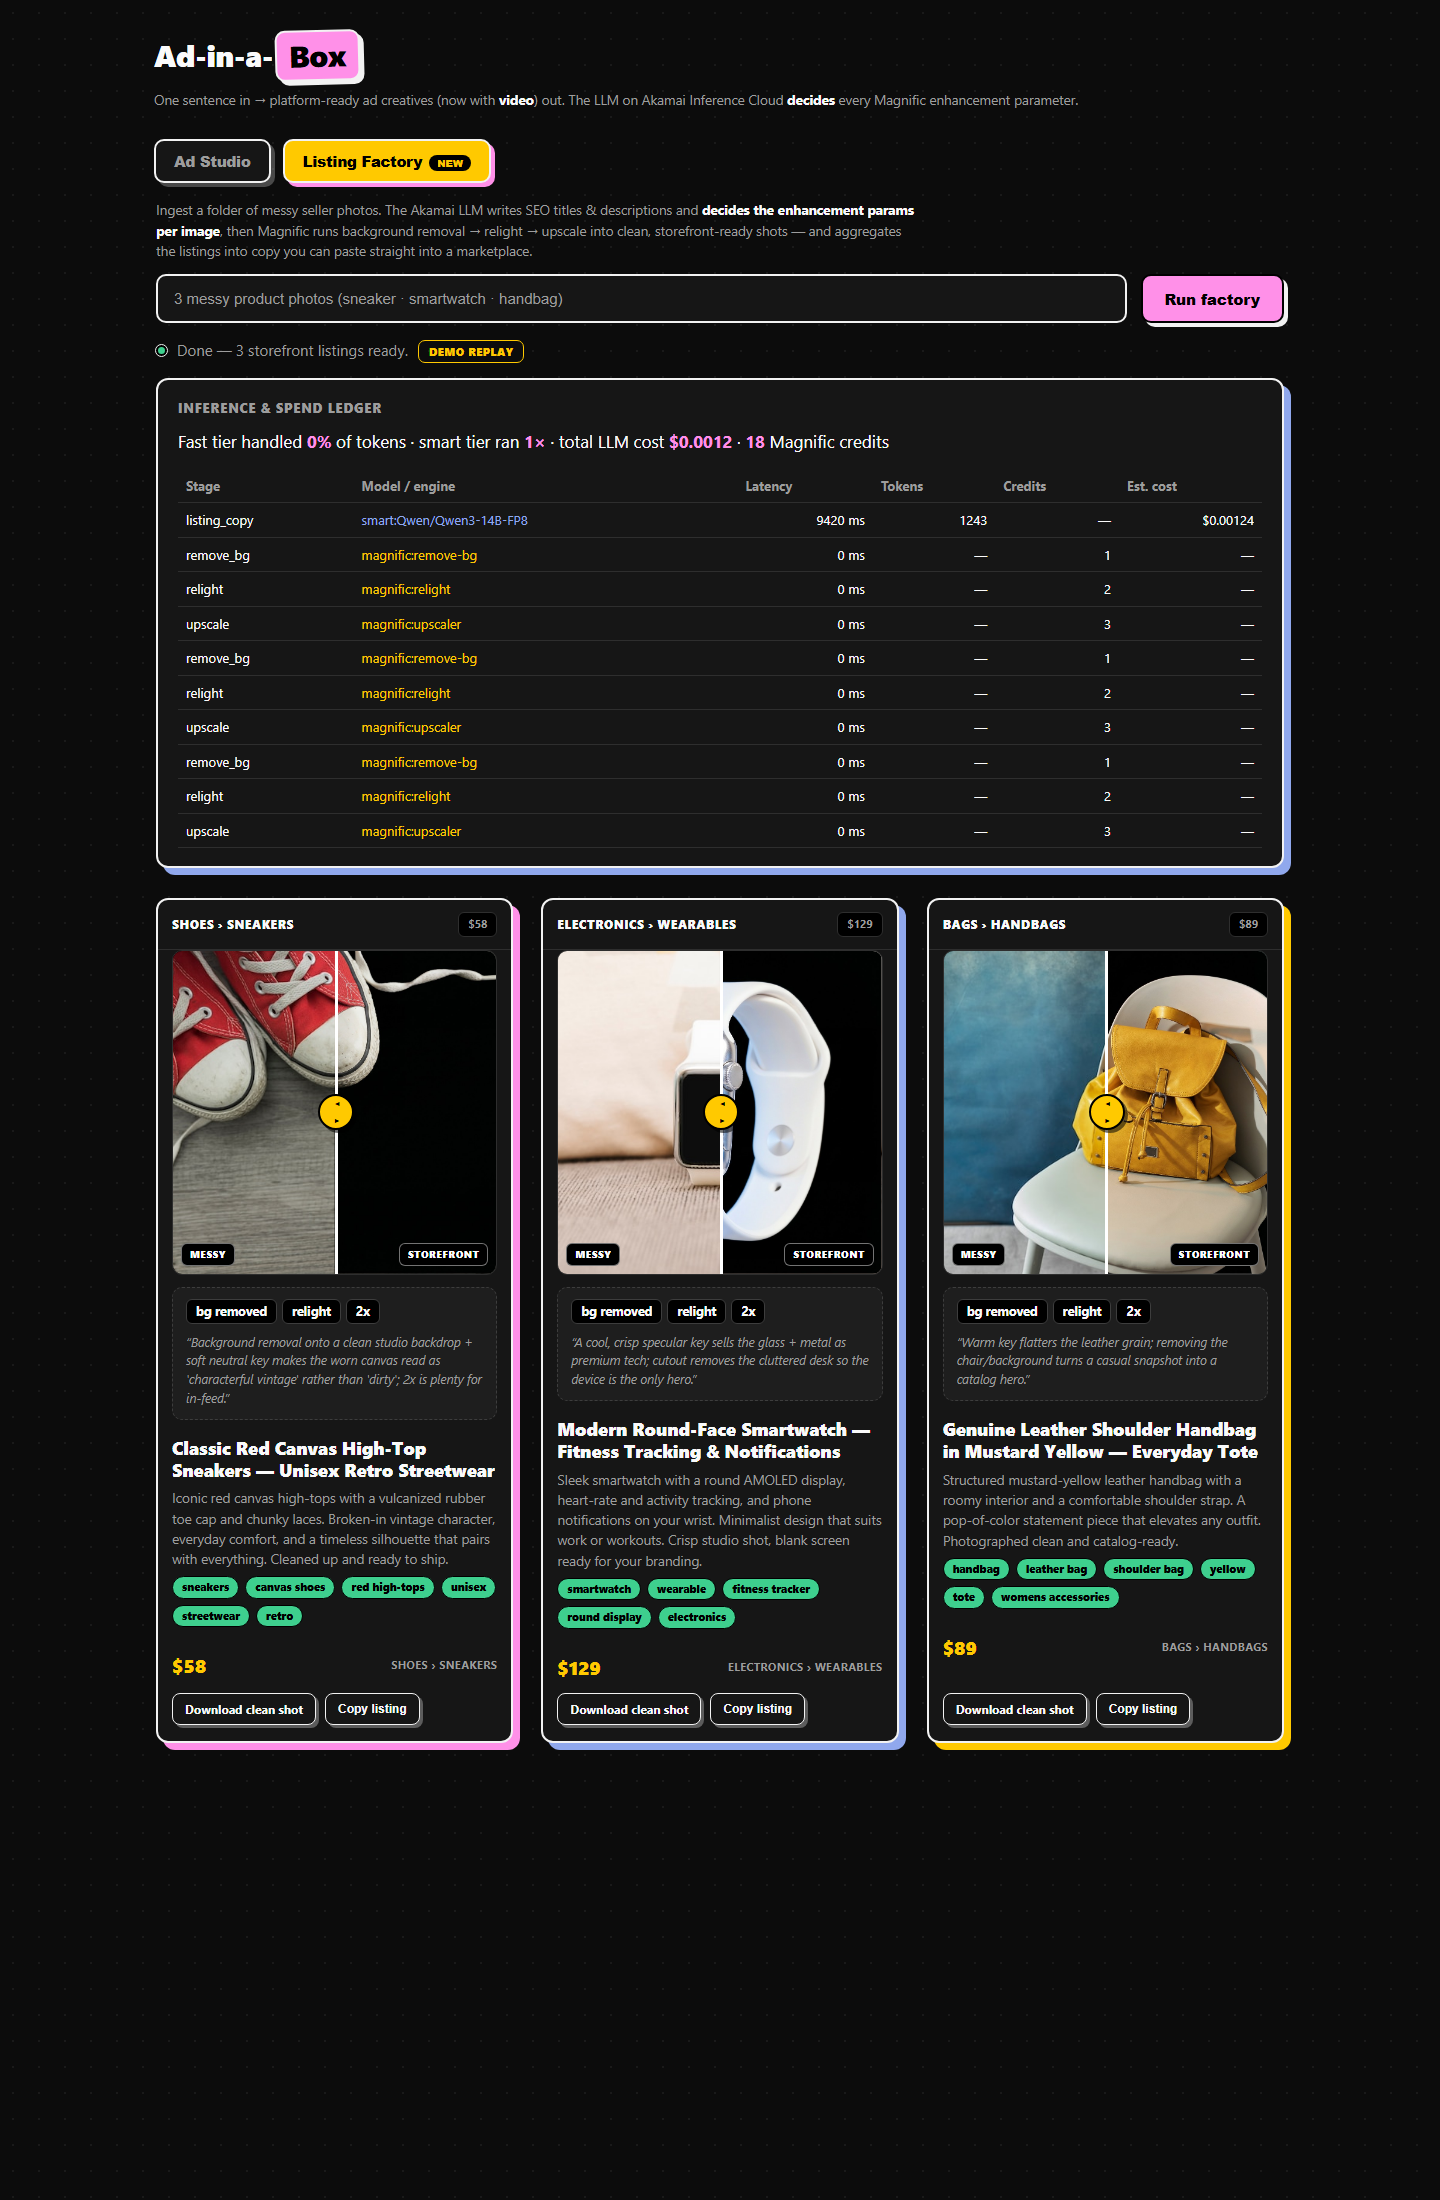
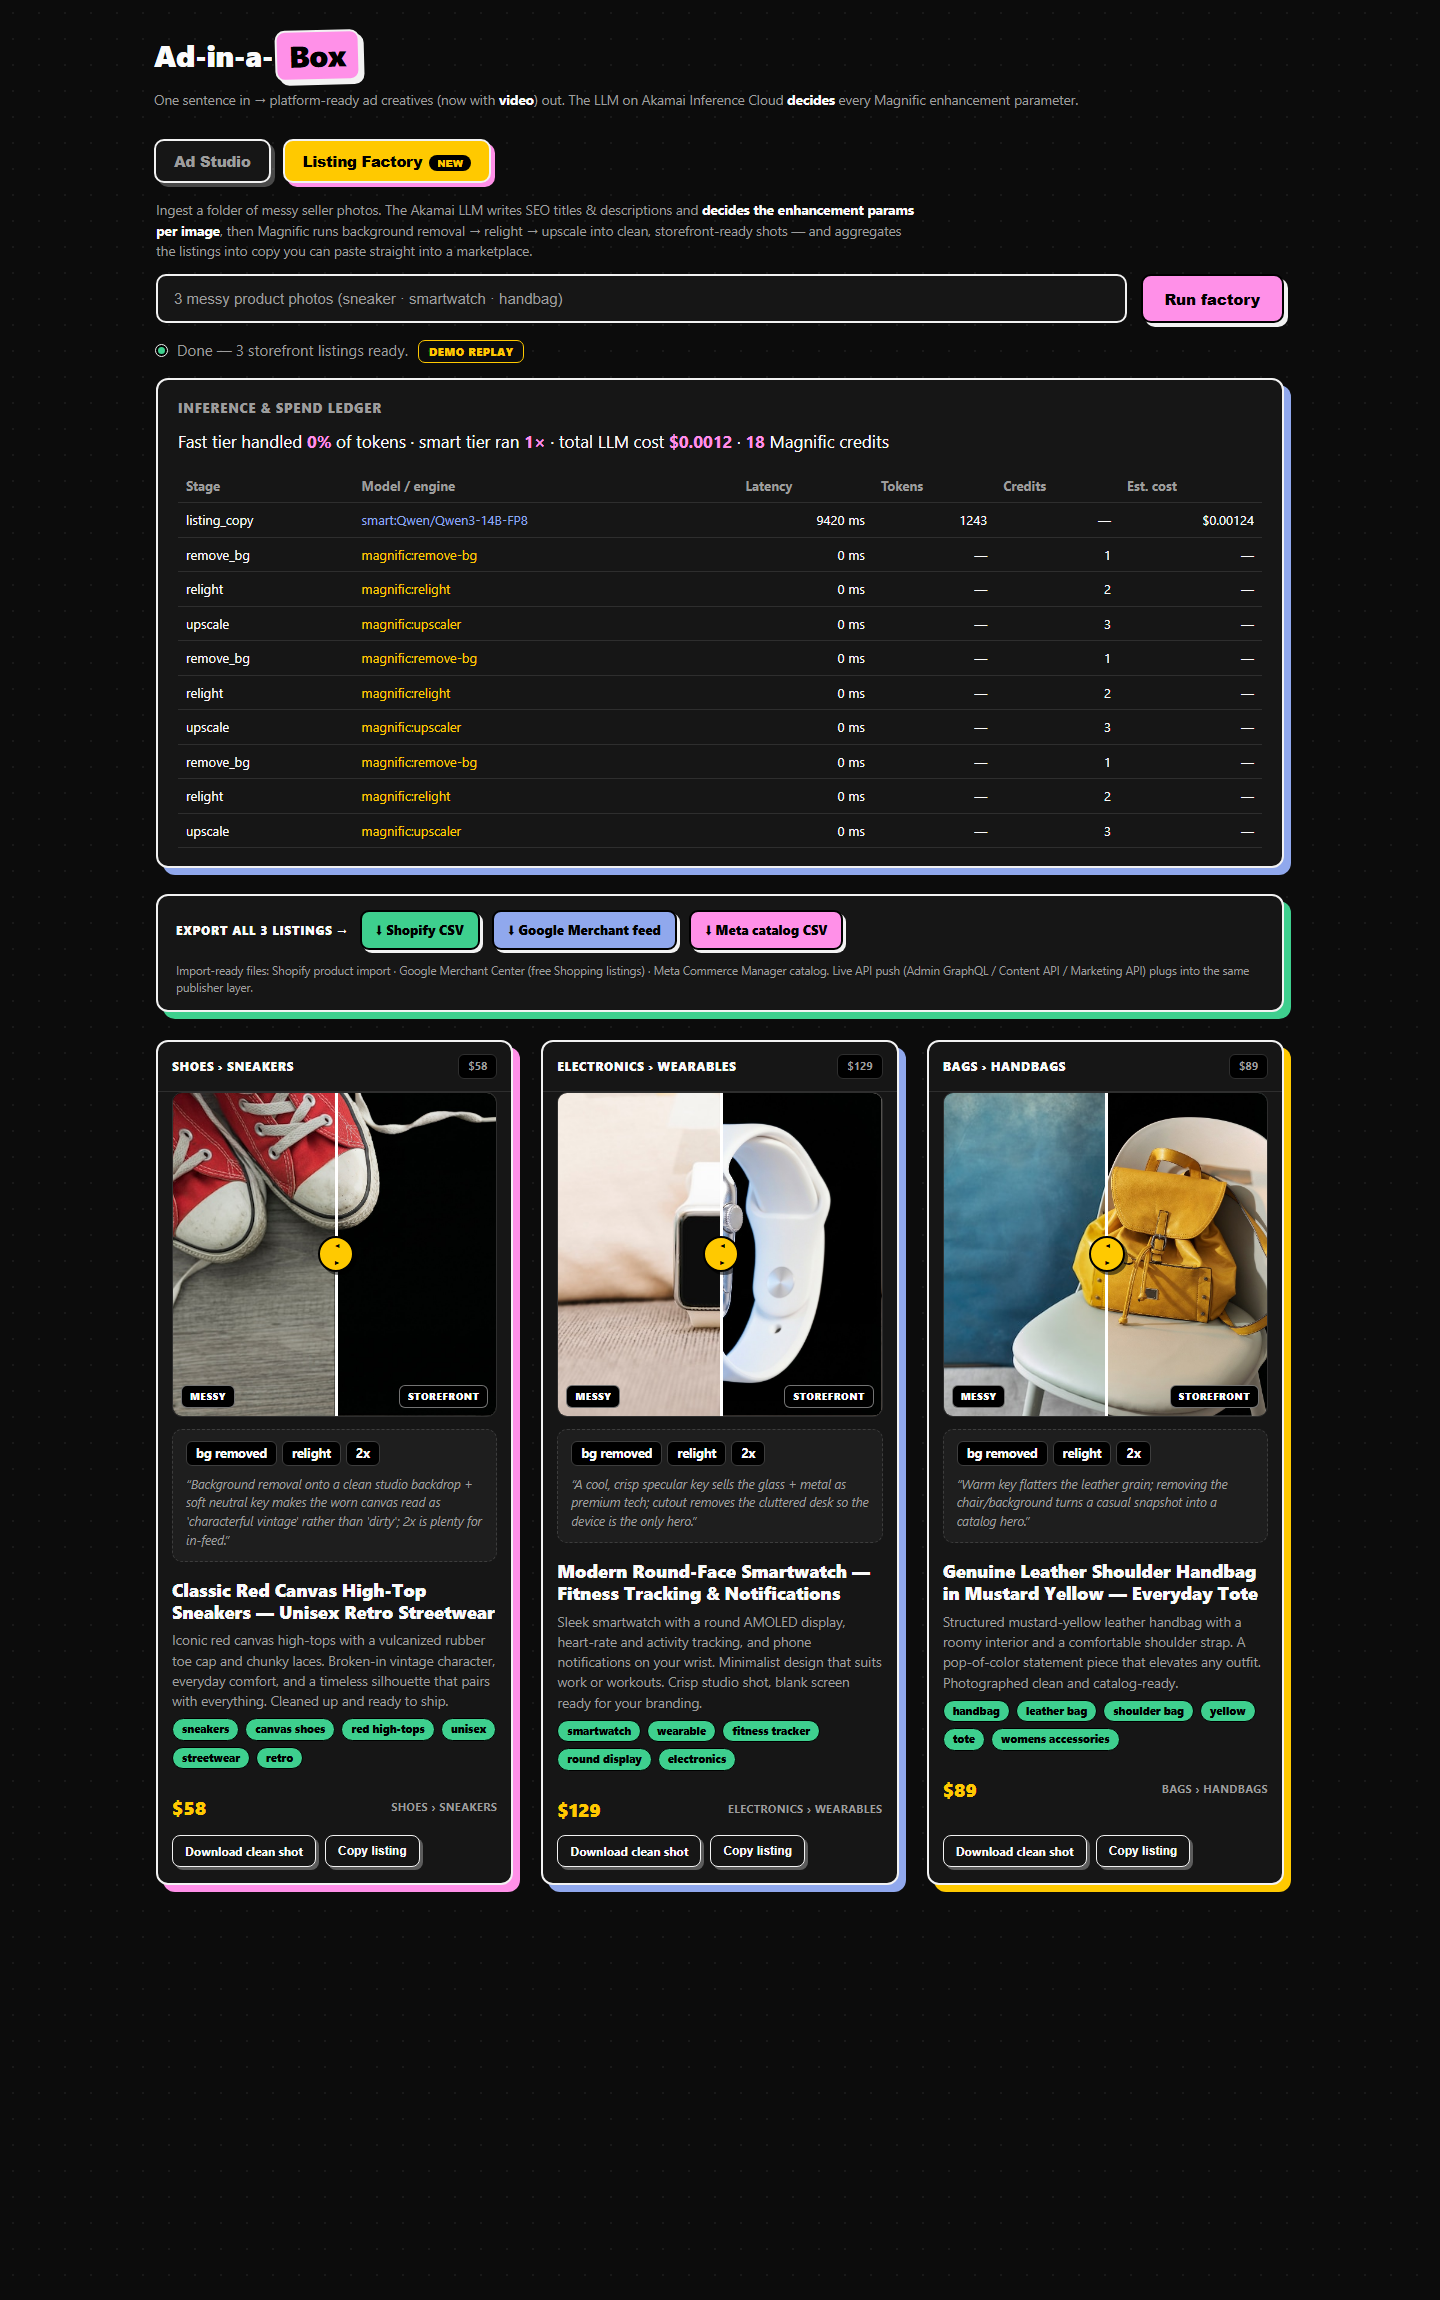
One-click platform exports: Shopify CSV, Google Merchant feed, Meta catalog
backend/publishers/exports.py builds import-ready feeds from a ListingRun;
GET /listings/{id}/export/{shopify|merchant|meta} serves them; export toolbar
appears on the Listing Factory tab when a run completes. README updated +
refreshed screenshot.

diff --git a/frontend/index.html b/frontend/index.html
@@ -153,6 +153,19 @@
   .toast.show{opacity:1;transform:translateX(-50%) translateY(0)}
   .intro{color:var(--dim);font-size:13.5px;margin:16px 2px 4px;max-width:760px}
   .intro b{color:var(--ink)}
+
+  /* platform export toolbar */
+  .exports{display:flex;align-items:center;gap:12px;flex-wrap:wrap;background:var(--panel);
+       border:2px solid var(--line);border-radius:var(--radius);padding:14px 18px;margin:4px 2px 24px;
+       box-shadow:7px 7px 0 var(--green)}
+  .exports .xlabel{font-size:12px;font-weight:900;text-transform:uppercase;letter-spacing:.7px;color:var(--ink)}
+  .exports a{font-size:13px;font-weight:800;color:#000;text-decoration:none;border:2px solid #000;
+       border-radius:9px;padding:8px 14px;transition:.12s;box-shadow:3px 3px 0 var(--line)}
+  .exports a:hover{transform:translate(-2px,-2px);box-shadow:5px 5px 0 var(--line)}
+  .exports a.shopify{background:var(--green)}
+  .exports a.merchant{background:var(--blue)}
+  .exports a.meta{background:var(--pink)}
+  .exports .xnote{font-size:11.5px;color:var(--dim);width:100%}
 </style>
 </head>
 <body>
@@ -216,6 +229,8 @@
         <th class="num">Tokens</th><th class="num">Credits</th><th class="num">Est. cost</th>
       </tr></thead><tbody id="lledgerBody"></tbody></table>
     </div>
+
+    <div class="exports" id="lexports" style="display:none"></div>
 
     <div class="gallery" id="lgallery"></div>
   </div>
@@ -466,6 +481,16 @@ function renderListings(s){
     (s.stage==="listing_copy"?"LLM writing SEO + choosing enhancement params…":
      s.stage==="cleaning"?"Magnific cleaning photos (bg → relight → upscale)…":s.stage));
   if(s.ledger_summary) renderLedger(s,"#lledger","#lheadStat","#lledgerBody");
+  // one-click platform feeds, once the run is done
+  if(s.status==="done" && s.run_id){
+    const x=$("#lexports");
+    x.innerHTML=`<span class="xlabel">Export all ${s.items.length} listings →</span>`+
+      `<a class="shopify" href="/listings/${s.run_id}/export/shopify" download>⬇ Shopify CSV</a>`+
+      `<a class="merchant" href="/listings/${s.run_id}/export/merchant" download>⬇ Google Merchant feed</a>`+
+      `<a class="meta" href="/listings/${s.run_id}/export/meta" download>⬇ Meta catalog CSV</a>`+
+      `<span class="xnote">Import-ready files: Shopify product import · Google Merchant Center (free Shopping listings) · Meta Commerce Manager catalog. Live API push (Admin GraphQL / Content API / Marketing API) plugs into the same publisher layer.</span>`;
+    x.style.display="flex";
+  }
   const g=$("#lgallery");
   (s.items||[]).forEach(it=>{
     let card=document.getElementById("lcard-"+it.id);

diff --git a/backend/publishers/exports.py b/backend/publishers/exports.py
@@ -1,0 +1,142 @@
+"""No-auth export adapters: turn a ListingRun into platform-ready feed files.
+
+Each builder is a pure function ListingRun -> file text, so the same factory
+output imports into Shopify (product CSV), Google Merchant Center (TSV feed —
+free Shopping listings, zero ad spend) and Meta Commerce Manager (catalog CSV)
+without any platform credentials. Live API pushes (Shopify Admin GraphQL,
+Content API, Marketing API) slot in beside these as publishers/{platform}.py.
+
+Image/link URLs are absolutized against the serving host; in production these
+would point at a CDN.
+"""
+from __future__ import annotations
+
+import csv
+import io
+import re
+
+from ..models import ListingItem, ListingRun
+
+
+def _price_number(price: str) -> str:
+    """'$58' -> '58.00' (defaults to 0.00 if unparsable)."""
+    m = re.search(r"[\d.]+", price or "")
+    try:
+        return f"{float(m.group()):.2f}" if m else "0.00"
+    except ValueError:
+        return "0.00"
+
+
+def _abs(base_url: str, path: str | None) -> str:
+    if not path:
+        return ""
+    return base_url.rstrip("/") + path
+
+
+def _handle(item: ListingItem) -> str:
+    slug = re.sub(r"[^a-z0-9]+", "-", item.title.lower()).strip("-")
+    return slug[:60] or item.id
+
+
+def _csv(rows: list[dict], fieldnames: list[str], *, delimiter: str = ",") -> str:
+    buf = io.StringIO()
+    w = csv.DictWriter(buf, fieldnames=fieldnames, delimiter=delimiter, lineterminator="\n")
+    w.writeheader()
+    w.writerows(rows)
+    return buf.getvalue()
+
+
+# --- Shopify product import CSV ---------------------------------------------
+_SHOPIFY_FIELDS = [
+    "Handle", "Title", "Body (HTML)", "Vendor", "Type", "Tags", "Published",
+    "Option1 Name", "Option1 Value", "Variant Price", "Variant Inventory Policy",
+    "Variant Fulfillment Service", "Image Src", "Image Alt Text", "Status",
+]
+
+
+def shopify_csv(run: ListingRun, base_url: str) -> str:
+    rows = []
+    for it in run.items:
+        rows.append({
+            "Handle": _handle(it),
+            "Title": it.title,
+            "Body (HTML)": f"<p>{it.description}</p>",
+            "Vendor": "Ad-in-a-Box",
+            "Type": it.category,
+            "Tags": ", ".join(it.tags),
+            "Published": "TRUE",
+            "Option1 Name": "Title",
+            "Option1 Value": "Default Title",
+            "Variant Price": _price_number(it.suggested_price),
+            "Variant Inventory Policy": "deny",
+            "Variant Fulfillment Service": "manual",
+            "Image Src": _abs(base_url, it.clean_url),
+            "Image Alt Text": it.title,
+            "Status": "active",
+        })
+    return _csv(rows, _SHOPIFY_FIELDS)
+
+
+# --- Google Merchant Center feed (TSV) — free Shopping listings -------------
+_MERCHANT_FIELDS = [
+    "id", "title", "description", "link", "image_link", "availability",
+    "price", "condition", "brand", "google_product_category", "identifier_exists",
+]
+
+
+def merchant_tsv(run: ListingRun, base_url: str) -> str:
+    rows = []
+    for it in run.items:
+        rows.append({
+            "id": f"adbox-{run.run_id}-{it.id}",
+            "title": it.title,
+            "description": it.description,
+            "link": base_url.rstrip("/") + "/",
+            "image_link": _abs(base_url, it.clean_url),
+            "availability": "in stock",
+            "price": f"{_price_number(it.suggested_price)} USD",
+            "condition": "new",
+            "brand": "Ad-in-a-Box",
+            "google_product_category": it.category,
+            "identifier_exists": "no",
+        })
+    return _csv(rows, _MERCHANT_FIELDS, delimiter="\t")
+
+
+# --- Meta (Facebook/Instagram Shops) catalog CSV -----------------------------
+_META_FIELDS = [
+    "id", "title", "description", "availability", "condition", "price",
+    "link", "image_link", "brand", "product_type",
+]
+
+
+def meta_csv(run: ListingRun, base_url: str) -> str:
+    rows = []
+    for it in run.items:
+        rows.append({
+            "id": f"adbox-{run.run_id}-{it.id}",
+            "title": it.title,
+            "description": it.description,
+            "availability": "in stock",
+            "condition": "new",
+            "price": f"{_price_number(it.suggested_price)} USD",
+            "link": base_url.rstrip("/") + "/",
+            "image_link": _abs(base_url, it.clean_url),
+            "brand": "Ad-in-a-Box",
+            "product_type": it.category,
+        })
+    return _csv(rows, _META_FIELDS)
+
+
+# --- Registry ----------------------------------------------------------------
+EXPORTERS = {
+    "shopify": (shopify_csv, "shopify_products.csv", "text/csv"),
+    "merchant": (merchant_tsv, "google_merchant_feed.tsv", "text/tab-separated-values"),
+    "meta": (meta_csv, "meta_catalog.csv", "text/csv"),
+}
+
+
+def export(run: ListingRun, platform: str, base_url: str) -> tuple[str, str, str]:
+    """Returns (file_text, filename, mime). Raises KeyError on unknown platform."""
+    builder, filename, mime = EXPORTERS[platform]
+    return builder(run, base_url), filename, mime

diff --git a/backend/main.py b/backend/main.py
@@ -9,8 +9,8 @@ import os
 import uuid
 
 from dotenv import load_dotenv
-from fastapi import BackgroundTasks, FastAPI, HTTPException
-from fastapi.responses import FileResponse, JSONResponse
+from fastapi import BackgroundTasks, FastAPI, HTTPException, Request
+from fastapi.responses import FileResponse, JSONResponse, Response
 from fastapi.staticfiles import StaticFiles
 from pydantic import BaseModel
 
@@ -23,6 +23,7 @@ from . import listing_factory  # noqa: E402
 from .ledger import summarize  # noqa: E402
 from .models import ListingRun, RunState  # noqa: E402
 from .pipeline import run_pipeline  # noqa: E402
+from .publishers import exports  # noqa: E402
 
 BASE_DIR = Path(__file__).parent
 STATIC_DIR = BASE_DIR / "static"
@@ -131,3 +132,21 @@ async def get_listing_run(run_id: str):
     payload = state.model_dump()
     payload["ledger_summary"] = summarize(all_stages)
     return payload
+
+
[email redacted]("/listings/{run_id}/export/{platform}")
+async def export_listing_run(run_id: str, platform: str, request: Request):
+    """No-auth platform feeds: shopify (product CSV), merchant (Google Merchant
+    Center TSV — free Shopping listings), meta (Commerce Manager catalog CSV)."""
+    state = LISTING_RUNS.get(run_id)
+    if state is None:
+        raise HTTPException(status_code=404, detail="listing run not found")
+    try:
+        content, filename, mime = exports.export(state, platform, str(request.base_url))
+    except KeyError:
+        raise HTTPException(status_code=404, detail=f"unknown platform '{platform}'")
+    return Response(
+        content,
+        media_type=mime,
+        headers={"Content-Disposition": f'attachment; filename="{filename}"'},
+    )

diff --git a/README.md b/README.md
@@ -170,28 +170,30 @@ The pipeline already ends in **typed contracts** (`Creative`, `ListingItem` in [
 | `suggested_price` | `variant.price` |
 | `clean_url` image | `productCreateMedia` (staged upload) |
 
-Two integration levels: **(1) zero-auth** — a "Download Shopify CSV" export the merchant imports in two clicks; **(2) live push** — a custom-app Admin token + `publishers/shopify.py` → a "Push to Shopify" button per listing card.
+Two integration levels: **(1) zero-auth — ✅ BUILT:** a "⬇ Shopify CSV" button on the Listing Factory tab downloads an import-ready product CSV (`GET /listings/{id}/export/shopify`); **(2) live push** — a custom-app Admin token + `publishers/shopify.py` → a "Push to Shopify" button per listing card.
 
 ### 🔎 Google — a free door and a paid door
-- **Free — Google Merchant Center free listings:** push Listing Factory output as a **product feed** (Content API for Shopping). Clean image + SEO title/description/price = free Google Shopping placement, *zero ad spend*. The strongest free-distribution fit for the factory.
+- **Free — Google Merchant Center free listings — ✅ BUILT (feed):** the "⬇ Google Merchant feed" button downloads a spec-compliant TSV product feed (`id/title/description/link/image_link/price/availability/...`). Clean image + SEO title/description/price = free Google Shopping placement, *zero ad spend*. The strongest free-distribution fit for the factory; the Content API push is the live upgrade.
 - **Paid — Google Ads Performance Max:** our outputs map directly to PMax **asset groups** — headlines (≤30 chars), descriptions (≤90), images (1:1 / 1.91:1 / 4:5), videos (YouTube upload → asset link). Two one-line adaptations: the smart tier's prompt gains platform char limits (it already enforces per-channel rules), and Magnific `crop`/`resize` covers the extra aspect ratios as one more pipeline stage.
 
 ### 📱 Meta (Facebook/Instagram)
-- **Free:** Commerce Manager **catalog CSV** → Instagram/Facebook Shops.
+- **Free — ✅ BUILT (feed):** the "⬇ Meta catalog CSV" button downloads a Commerce Manager catalog file → Instagram/Facebook Shops.
 - **Paid:** Marketing API ad creatives — our 1:1 = feed, 9:16 = Stories/Reels, hero video = video ads. The clickable CTA landing modal in the UI is exactly the shape of a Meta ad's destination preview.
 
 ### 🏪 Marketplaces (Amazon SP-API, eBay, Etsy)
 Same `ListingItem` → their listing schemas; the "Copy listing" button becomes "Push to X".
 
-### The adapter layer (planned)
+### The adapter layer
 ```
 Creative / ListingItem  →  backend/publishers/
-                              base.py       # publish(item) -> {remote_id, url}
-                              shopify.py    # Admin GraphQL push
-                              merchant.py   # Google Merchant Center feed
-                              meta.py       # catalog / Marketing API
-                              exports.py    # CSV/XML feeds (no auth needed)
+                              exports.py    # ✅ BUILT: Shopify CSV, Google Merchant TSV,
+                                            #    Meta catalog CSV — no auth, one click in the UI
+                              shopify.py    # next: Admin GraphQL live push
+                              merchant.py   # next: Content API for Shopping push
+                              meta.py       # next: catalog / Marketing API push
 ```
+
+Run the Listing Factory and an **export toolbar** appears: one click downloads all listings as an import-ready file per platform — visible in the Listing Factory screenshot above.
 
 **The key point for judges:** the LLM already plans *per channel*. Extending `CHANNELS` to platform-native specs (PMax, Reels, Shopping) means the smart tier starts emitting **platform-compliant assets automatically** — no new architecture, just a longer contract.
 